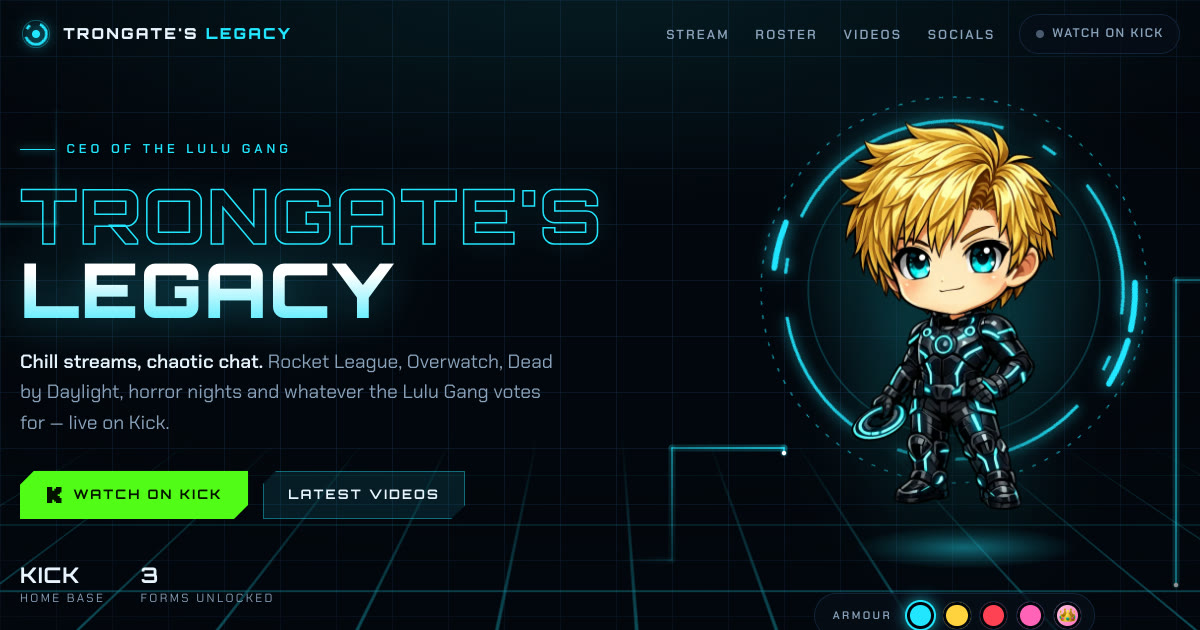
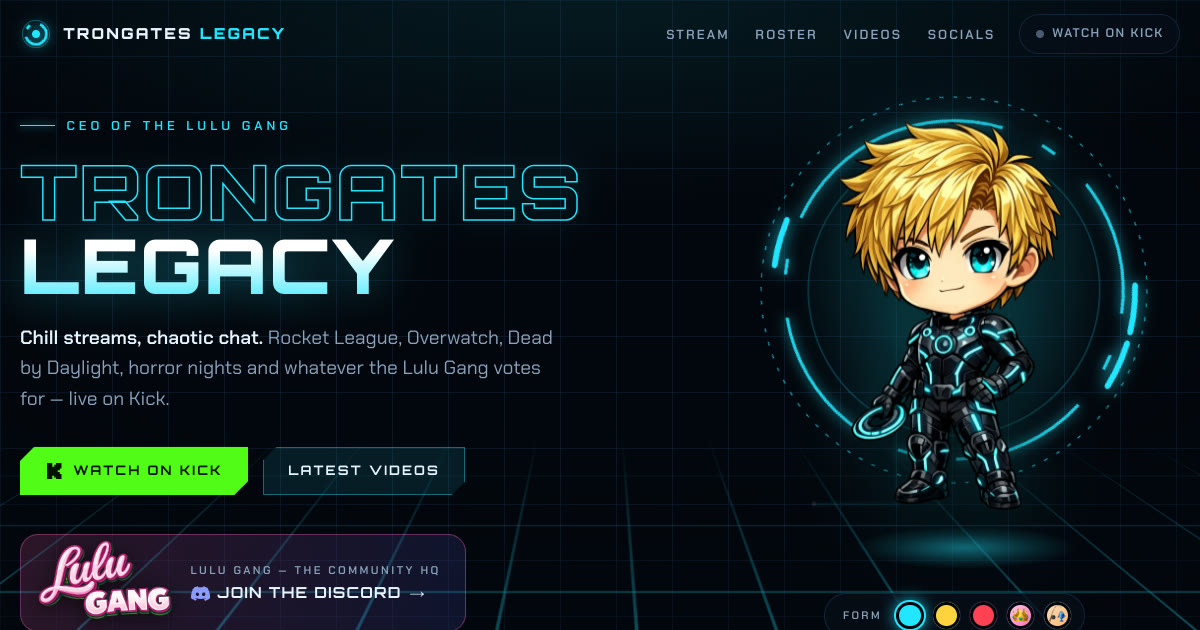
Rename to Trongates Legacy (no apostrophe) across the site and share image

diff --git a/public/index.html b/public/index.html
@@ -3,23 +3,23 @@
 <head>
 <meta charset="utf-8">
 <meta name="viewport" content="width=device-width, initial-scale=1, viewport-fit=cover">
-<title>Trongate's Legacy — Live on Kick</title>
-<meta name="description" content="Trongate's Legacy — chill streamer and CEO of the Lulu Gang. Catch the stream live on Kick, plus the latest VODs, shorts and socials.">
+<title>Trongates Legacy — Live on Kick</title>
+<meta name="description" content="Trongates Legacy — chill streamer and CEO of the Lulu Gang. Catch the stream live on Kick, plus the latest VODs, shorts and socials.">
 <meta name="robots" content="index, follow, max-image-preview:large">
 <meta name="theme-color" content="#03060d">
 <meta property="og:type" content="website">
-<meta property="og:title" content="Trongate's Legacy — Live on Kick">
+<meta property="og:title" content="Trongates Legacy — Live on Kick">
 <meta property="og:description" content="Chill streams, chaotic chat. Enter the Grid and join the Lulu Gang.">
 <meta property="og:url" content="https://www.trongateslegacy.com/">
 <meta property="og:image" content="https://www.trongateslegacy.com/assets/img/og.jpg">
 <meta property="og:image:width" content="1200">
 <meta property="og:image:height" content="630">
 <link rel="canonical" href="https://www.trongateslegacy.com/">
-<meta property="og:site_name" content="Trongate's Legacy">
+<meta property="og:site_name" content="Trongates Legacy">
 <meta property="og:locale" content="en_GB">
-<meta property="og:image:alt" content="Chibi Tron in neon armour beside the Trongate's Legacy title">
+<meta property="og:image:alt" content="Chibi Tron in neon armour beside the Trongates Legacy title">
 <meta name="twitter:card" content="summary_large_image">
-<meta name="twitter:title" content="Trongate's Legacy — Live on Kick">
+<meta name="twitter:title" content="Trongates Legacy — Live on Kick">
 <meta name="twitter:description" content="Chill streams, chaotic chat. Enter the Grid and join the Lulu Gang.">
 <meta name="twitter:image" content="https://www.trongateslegacy.com/assets/img/og.jpg">
 <meta name="twitter:site" content="@trongateslegacy">
@@ -50,7 +50,7 @@
 })();
 </script>
 <script type="application/ld+json">
-{"@context":"https://schema.org","@graph":[{"@type":"WebSite","@id":"https://www.trongateslegacy.com/#website","url":"https://www.trongateslegacy.com/","name":"Trongate's Legacy","description":"Chill streamer live on Kick — streams, VODs, shorts and the Lulu Gang Discord.","inLanguage":"en-GB","publisher":{"@id":"https://www.trongateslegacy.com/#person"}},{"@type":"Person","name":"Trongate's Legacy","alternateName":"trongateslegacy","description":"Chill streamer, live on Kick.","url":"https://www.trongateslegacy.com/","sameAs":["https://kick.com/trongateslegacy","https://club.com/trongateslegacy","https://www.instagram.com/trongateslegacy/","https://www.youtube.com/@trongateslegacy","https://www.tiktok.com/@trongateslegacy","https://www.facebook.com/trongateslegacy","https://x.com/trongateslegacy","https://discord.gg/FUKz6Dxk8W"],"@id":"https://www.trongateslegacy.com/#person","image":"https://www.trongateslegacy.com/assets/img/og.jpg","jobTitle":"Streamer"}]}
+{"@context":"https://schema.org","@graph":[{"@type":"WebSite","@id":"https://www.trongateslegacy.com/#website","url":"https://www.trongateslegacy.com/","name":"Trongates Legacy","description":"Chill streamer live on Kick — streams, VODs, shorts and the Lulu Gang Discord.","inLanguage":"en-GB","publisher":{"@id":"https://www.trongateslegacy.com/#person"}},{"@type":"Person","name":"Trongates Legacy","alternateName":"trongateslegacy","description":"Chill streamer, live on Kick.","url":"https://www.trongateslegacy.com/","sameAs":["https://kick.com/trongateslegacy","https://club.com/trongateslegacy","https://www.instagram.com/trongateslegacy/","https://www.youtube.com/@trongateslegacy","https://www.tiktok.com/@trongateslegacy","https://www.facebook.com/trongateslegacy","https://x.com/trongateslegacy","https://discord.gg/FUKz6Dxk8W"],"@id":"https://www.trongateslegacy.com/#person","image":"https://www.trongateslegacy.com/assets/img/og.jpg","jobTitle":"Streamer"}]}
 </script>
 <style>
 @font-face { font-family: 'Orbitron'; font-weight: 400 900; font-display: swap; src: url(/assets/fonts/orbitron.woff2) format('woff2'); }
@@ -453,9 +453,9 @@ footer { position: relative; margin-top: 3rem; border-top: 1px solid var(--a20);
 
 <header class="nav" id="nav">
   <div class="nav-in">
-    <a class="brand" href="#top" aria-label="Trongate's Legacy — home">
+    <a class="brand" href="#top" aria-label="Trongates Legacy — home">
       <svg viewBox="0 0 40 40" aria-hidden="true"><circle cx="20" cy="20" r="17" fill="none" stroke="var(--accent)" stroke-width="1" opacity=".4"/><circle class="ring" cx="20" cy="20" r="13" fill="none" stroke="var(--accent)" stroke-width="3.5" stroke-dasharray="52 10 6 13.7"/><circle cx="20" cy="20" r="5" fill="var(--accent)"/></svg>
-      <span>TRONGATE'S <span>LEGACY</span></span>
+      <span>TRONGATES <span>LEGACY</span></span>
     </a>
     <nav class="nav-links" aria-label="Sections">
       <a href="#stream">Stream</a><a href="#roster">Roster</a><a href="#videos">Videos</a><a href="#socials">Socials</a>
@@ -469,7 +469,7 @@ footer { position: relative; margin-top: 3rem; border-top: 1px solid var(--a20);
   <div class="hero-in">
     <div>
       <span class="eyebrow">CEO of the Lulu Gang</span>
-      <h1 aria-label="Trongate's Legacy"><span class="l1" aria-hidden="true">Trongate's</span><span class="l2" data-t="Legacy" aria-hidden="true">Legacy</span></h1>
+      <h1 aria-label="Trongates Legacy"><span class="l1" aria-hidden="true">Trongates</span><span class="l2" data-t="Legacy" aria-hidden="true">Legacy</span></h1>
       <p class="lede"><strong>Chill streams, chaotic chat.</strong> Rocket League, Overwatch, Dead by Daylight, horror nights and whatever the Lulu Gang votes for — live on Kick.</p>
       <div class="cta">
         <a class="btn btn-kick" href="https://kick.com/trongateslegacy" target="_blank" rel="noopener"><svg class="i"><use href="#i-kick"/></svg><span data-cta-text>Watch on Kick</span></a>
@@ -491,7 +491,7 @@ footer { position: relative; margin-top: 3rem; border-top: 1px solid var(--a20);
         </div>
         <div class="pad" aria-hidden="true"></div>
         <button class="tuber s-co" id="tuber" aria-label="Poke Tron">
-          <img data-s="co" id="hero-img" width="640" height="960" alt="Trongate's Legacy chibi avatar" fetchpriority="high" decoding="async">
+          <img data-s="co" id="hero-img" width="640" height="960" alt="Trongates Legacy chibi avatar" fetchpriority="high" decoding="async">
           <script>(function (i) { i.sizes = window.__sizes; i.srcset = window.__srcset(window.__formSrc); i.src = window.__formSrc; })(document.getElementById('hero-img'));</script>
           <noscript><img src="/assets/img/tron-cyan-mclosed-eopen.webp" width="640" height="960" alt="" style="opacity:1"></noscript>
           <img data-s="cc" alt="" width="640" height="960" decoding="async">
@@ -677,7 +677,7 @@ footer { position: relative; margin-top: 3rem; border-top: 1px solid var(--a20);
   <div class="end">
     <p class="huge reveal">See you on<span>the Grid</span></p>
     <a class="btn btn-kick reveal" href="https://kick.com/trongateslegacy" target="_blank" rel="noopener"><svg class="i"><use href="#i-kick"/></svg><span data-cta-text>Watch on Kick</span></a>
-    <div class="fine"><span>© <span id="yr">2026</span> Trongate's Legacy. End of line.</span><span>Fan-made aesthetic — not affiliated with Kick or Disney's TRON.</span></div>
+    <div class="fine"><span>© <span id="yr">2026</span> Trongates Legacy. End of line.</span><span>Fan-made aesthetic — not affiliated with Kick or Disney's TRON.</span></div>
   </div>
 </footer>
 
@@ -872,7 +872,7 @@ footer { position: relative; margin-top: 3rem; border-top: 1px solid var(--a20);
     if (!facade.isConnected) return;
     const f = document.createElement('iframe');
     f.src = 'https://player.kick.com/trongateslegacy' + (auto ? '?autoplay=true&muted=true' : '?autoplay=true');
-    f.title = "Trongate's Legacy live on Kick";
+    f.title = "Trongates Legacy live on Kick";
     f.allow = 'autoplay; fullscreen; picture-in-picture';
     f.allowFullscreen = true;
     facade.replaceWith(f);

diff --git a/README.md b/README.md
@@ -1,6 +1,6 @@
-# Trongate's Legacy
+# Trongates Legacy
 
-Single-page site for [Trongate's Legacy](https://kick.com/trongateslegacy) — live on Kick.
+Single-page site for [Trongates Legacy](https://kick.com/trongateslegacy) — live on Kick.
 
 - `public/index.html` — the whole site (HTML, CSS and JS inline, no build step)
 - `public/assets/img/` — optimised WebP character art (four mouth/eye states per form)
